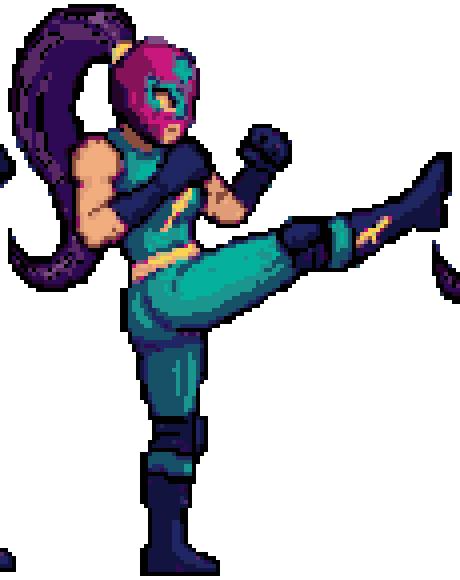
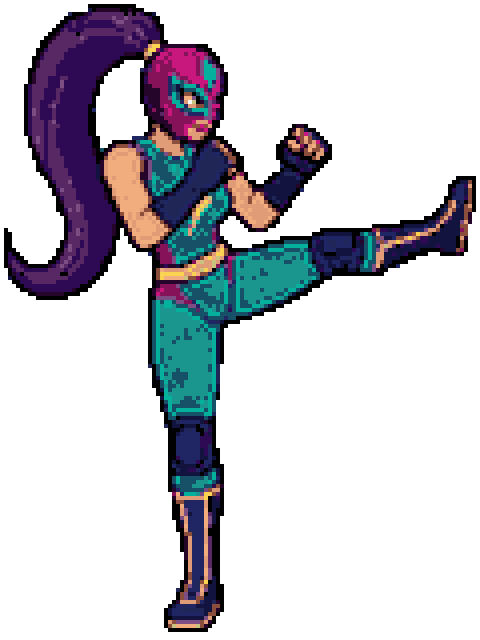
V0.4: familia débil 4/5 + visor cine + height-lock
- Hoja: kick_weak_stand + crouch_punch nuevos; 11 anims/49 frames
- height-lock: si la cabeza falla (fusion coleta), escala por altura
  (160 de pie; ref agachada de la low kick); cero regresión (7 OK intactos)
- Visor: anti-caché + aviso desync + contador de frame (fix carrusel)
- Limpieza: fuentes _new consumidas eliminadas

diff --git a/preview/index.html b/preview/index.html
@@ -14,6 +14,7 @@
   header p { margin:6px 0 0; color:#96ffeb; }
   header p.notes { color:#9d9ab5; font-size:14px; }
   header p.notes b { color:#ffcb3d; }
+  header p#syncwarn { display:none; color:#ff7b7b; font-weight:bold; }
   main { display:flex; gap:20px; flex-wrap:wrap; justify-content:center; padding:16px;
          width:100%; max-width:1200px; }
   .stage { background:#222033; border:2px solid #3a3752; border-radius:12px; padding:16px;
@@ -56,6 +57,7 @@
   <h1>⚡ VOLTIA ⚡</h1>
   <p id="ver">cargando…</p>
   <p class="notes" id="notes"></p>
+  <p id="syncwarn"></p>
 </header>
 <main>
   <div class="stage">
@@ -100,13 +102,26 @@
 <footer id="foot">FabaterFighter</footer>
 <script>
 (async () => {
-  const meta = await (await fetch('../voltia/sheet.json')).json();
+  // Anti-caché: hoja y datos siempre frescos y emparejados (evita el "carrusel").
+  const QB = '?v=' + Date.now();
+  const meta = await (await fetch('../voltia/sheet.json' + QB, { cache: 'no-store' })).json();
   const sheet = new Image();
-  sheet.src = '../voltia/' + meta.sprite;
+  sheet.src = '../voltia/' + meta.sprite + QB;
   await sheet.decode();
 
   const cell = meta.cell;              // {w,h} en px de hoja (uniform_scale)
   const unit = meta.art.uniform_scale; // px-hoja por px-arte
+
+  // Guardia de sincronía: si la hoja no cubre la parrilla, avisar en vez de descuadrar.
+  const needW = Math.max(...meta.animations.map(a => a.frames)) * cell.w;
+  const needH = meta.rows * cell.h;
+  if (sheet.naturalWidth < needW - 2 || sheet.naturalHeight < needH - 2) {
+    const w = document.getElementById('syncwarn');
+    w.style.display = 'block';
+    w.textContent = `⚠ Hoja y datos desincronizados (${sheet.naturalWidth}×${sheet.naturalHeight} ` +
+      `vs ${needW}×${needH} necesarios): haz recarga fuerte (Ctrl+F5).`;
+  }
+
   const total = meta.animations.reduce((n, a) => n + a.frames, 0);
   const ndone = (meta.roster || []).filter(r => r.status === 'done').length;
   const ntot = (meta.roster || []).length;
@@ -192,7 +207,8 @@
                    f * cell.w, 0, cell.w, cell.h);
     strip.style.width = Math.min(strip.width, 560) + 'px';
     strip.style.height = 'auto';
-    info.innerHTML = `<b>${a.label}</b> · fila ${a.row} · ${a.frames} frames @ ${a.fps}fps · ${a.loop ? 'loop' : 'una vez'}`;
+    info.innerHTML = `<b>${a.label}</b> · fila ${a.row} · ${a.frames} frames @ ${a.fps}fps · ` +
+      `${a.loop ? 'loop' : 'una vez'} · frame <b id="fcount">1/${a.frames}</b>`;
   }
 
   function select(i) {
@@ -213,9 +229,12 @@
       }
     }
     last = t;
+    // Cine, no carrusel: cada frame sustituye al anterior fijo en la celda.
     cx.clearRect(0, 0, cell.w, cell.h);
     cx.drawImage(sheet, frame * cell.w, a.row * cell.h, cell.w, cell.h,
                  0, 0, cell.w, cell.h);
+    const fc = document.getElementById('fcount');
+    if (fc && fc._v !== frame) { fc._v = frame; fc.textContent = (frame + 1) + '/' + a.frames; }
     requestAnimationFrame(loop);
   }
 

diff --git a/voltia/normalize.py b/voltia/normalize.py
@@ -141,7 +141,7 @@ def detect_head_px(frame):
     return max(x1 - x0 + 1, y1 - y0 + 1)
 
 
-def strip_scale(frames, spec, strip_s, fixed_height=None):
+def strip_scale(frames, spec, strip_s, fixed_height=None, height_target=None):
     """Escala unica por tira. Devuelve (scale, heads, metodo)."""
     if fixed_height is not None:
         return None, [], "fixed"
@@ -149,11 +149,21 @@ def strip_scale(frames, spec, strip_s, fixed_height=None):
     valid = [x for x in heads if x]
     if len(valid) < max(1, (len(frames) + 1) // 2):
         med = statistics.median(f.height for f in frames)
-        return 160.0 / (med / strip_s), heads, "frame-fallback"
+        tgt = height_target or 160.0
+        return tgt / (med / strip_s), heads, "frame-fallback"
     if len(valid) >= 2 and statistics.pstdev(valid) / statistics.median(valid) > 0.12:
         # Cabezas inconsistentes (oclusiones): la mayor es la menos ocluida.
-        return spec["head_h"] / max(valid), heads, "head-max"
-    return spec["head_h"] / statistics.median(valid), heads, "head"
+        scale, method = spec["head_h"] / max(valid), "head-max"
+    else:
+        scale, method = spec["head_h"] / statistics.median(valid), "head"
+    if height_target:
+        # Validar contra la altura esperada: si la cabeza salio fusionada
+        # con la coleta, la escala colapsa -> bloquear por altura de figura.
+        artmax = max(f.height for f in frames) * scale / strip_s
+        if abs(artmax - height_target) / height_target > 0.12:
+            med = statistics.median(f.height for f in frames)
+            scale, method = height_target / (med / strip_s), "height-lock"
+    return scale, heads, method
 
 
 def art_image(frame, scale, strip_s):
@@ -322,6 +332,8 @@ def qa_check_strip(sid, keyed, frames, expected, spec, strip_s, scale, heads, me
         elif method == "frame-fallback":
             notes.append(("AVISO", "sin cabezas fiables (fallback por altura)"))
         else:
+            if method == "height-lock":
+                notes.append(("AVISO", "escala por altura de figura (cabezas no fiables)"))
             valid = [x for x in heads if x]
             if len(valid) < len(frames):
                 notes.append(("AVISO", f"cabezas {len(valid)}/{len(frames)}"))

diff --git a/voltia/build_sheet.py b/voltia/build_sheet.py
@@ -27,7 +27,7 @@ from PIL import Image, ImageChops, ImageDraw, ImageFont
 HERE = os.path.dirname(os.path.abspath(__file__))
 sys.path.insert(0, HERE)
 from normalize import (load_spec, normalize_strip, qa_check_strip,  # noqa: E402
-                       estimate_pixel_size, strip_scale, FIXED_HEIGHT)
+                       estimate_pixel_size, strip_scale, FIXED_HEIGHT, CROUCH_HEIGHT)
 
 RAW = os.path.join(HERE, "raw")
 FRAMES = os.path.join(HERE, "frames")
@@ -420,6 +420,7 @@ def main():
         contact.save(os.path.join(HERE, "raw_contact.png"))
 
     rendered, data = [], {}
+    crouch_ref = None  # altura agachada honesta, medida en kick_weak (QA OK)
     for (sid, label, fps, loop, exp) in SECTIONS:
         p = os.path.join(RAW, f"{sid}.png")
         if not os.path.exists(p):
@@ -429,7 +430,12 @@ def main():
         frames = split_strip(keyed, exp, rows=LAYOUTS.get(sid, (1, exp))[0])
         strip_s = estimate_pixel_size(frames[len(frames) // 2])[0] if frames else spec["anchor_pixel"]
         fixed = FIXED_HEIGHT.get(sid)
-        scale, heads, method = strip_scale(frames, spec, strip_s, fixed_height=fixed)
+        if sid in CROUCH_HEIGHT:
+            htarget = crouch_ref or 132  # ref medida; si no, centro del rango QA
+        else:
+            htarget = 160
+        scale, heads, method = strip_scale(frames, spec, strip_s, fixed_height=fixed,
+                                           height_target=htarget)
         verdict, notes = qa_check_strip(sid, keyed, frames, exp, spec, strip_s, scale, heads, method)
         detail = f" ({'; '.join(m for _, m in notes)})" if notes else ""
         sc = f"{scale:.3f}" if scale else "-"
@@ -437,6 +443,9 @@ def main():
         if verdict == "RECHAZAR":
             print("    -> excluida del montaje: regenerar la tira")
             continue
+        if sid == "kick_weak" and scale:
+            # Referencia de altura agachada para la familia crouch.
+            crouch_ref = max(f.height for f in frames) * scale / strip_s
         frames = normalize_strip(frames, spec, strip_s, scale=scale, fixed_height=fixed)
         for i, f in enumerate(frames):
             f.save(os.path.join(FRAMES, f"voltia_{sid}_{i}.png"))

diff --git a/voltia/SPRITE_RULES.md b/voltia/SPRITE_RULES.md
@@ -105,6 +105,10 @@ regenerar si la puerta rechaza, nunca relajar la puerta):
 - **Regla de oro**: verificar antes de sustituir; jamás `rm`/`mv` destructivo
   sobre la única copia (se perdió una tira reutilizable por limpieza
   prematura).
+- **Bloqueo por altura (`height-lock`)**: si la escala por cabeza deja la
+  figura fuera de ±12 % del objetivo (160 de pie; agachado = ref medida en
+  la low kick), se reescala por altura de figura + AVISO. Solo salta donde
+  el QA ya fallaba: cero regresión en el resto.
 
 ## 4. Puerta QA (automática)
 
